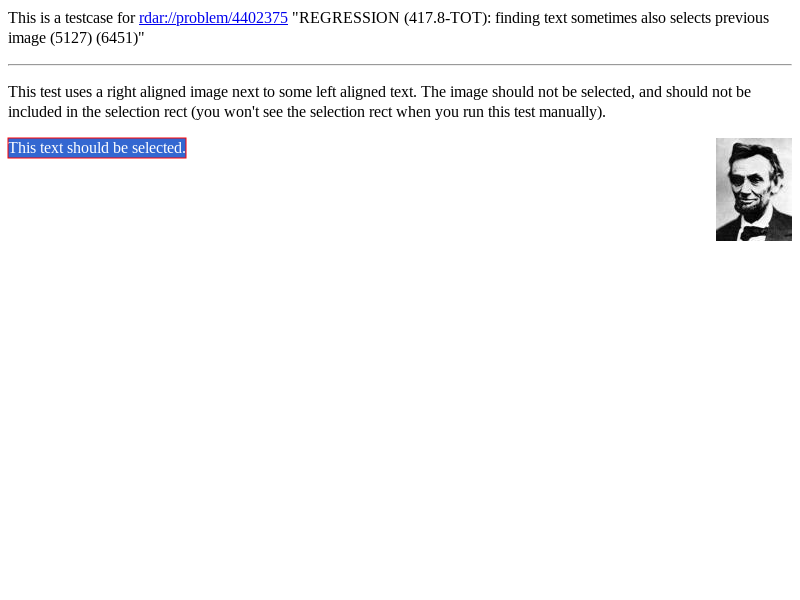
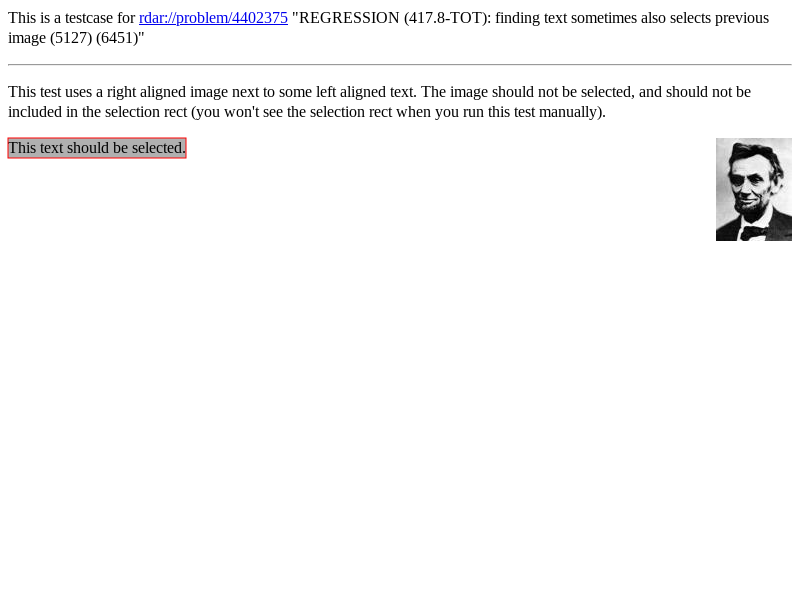
Fix flaky editing\selection\4402375.html test
The above mentioned test is flaky on Mac platforms. The flakiness
occurs because sometimes the test window is inactive, leading to an
inactive selection color (gray) versus the expected active selection
color (blue). Since there is no deterministic way to set the window as
active from JS, the test is being fixed by setting the color and
background-color for active and inactive selection to be the same. This
will ensure that the selection colors will always align with the
baseline, regardless of whether the window is active or not.

Bug: 1425544
Commit-Queue: Sanket Joshi <sajos@microsoft.com>
Cr-Commit-Position: refs/heads/main@{#1158671}
NOKEYCHECK=True
GitOrigin-RevId: 05fc59f37ae7ac47d232dfc8095fa9524f708e98

Changed region(s): [[0.0, 0.21, 0.25, 0.27]]

diff --git a/blink/web_tests/editing/selection/4402375.html b/blink/web_tests/editing/selection/4402375.html
@@ -1,3 +1,10 @@
+<style>
+    ::selection,
+    ::selection:window-inactive {
+      background-color: rgb(176, 176, 176);
+      color: black;
+    }
+</style>
 <script>
 if (window.testRunner) {
     testRunner.dumpEditingCallbacks();
